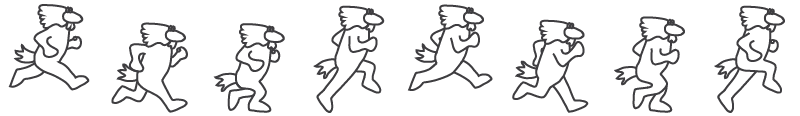
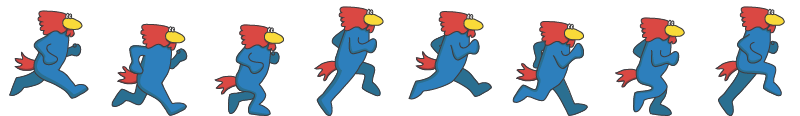
colored footix

diff --git a/src/pages/UserRegisterPage.js b/src/pages/UserRegisterPage.js
@@ -96,7 +96,7 @@ class UserRegisterPage extends Component {
               <div className="Input">
                 <div className="Label">Mot de passe</div>
                 <input type="password" value={password} onChange={this.passwordChanged.bind(this)} required
-                autoComplete="off" spellCheck="false" autoCorrect="off" autoCapitalize="off" maxLength="1024" />
+                placeholder={Labels.required} autoComplete="off" spellCheck="false" autoCorrect="off" autoCapitalize="off" maxLength="1024" />
               </div>
               {!pending &&
                 <button type="submit">{Labels.createAccount}</button>
